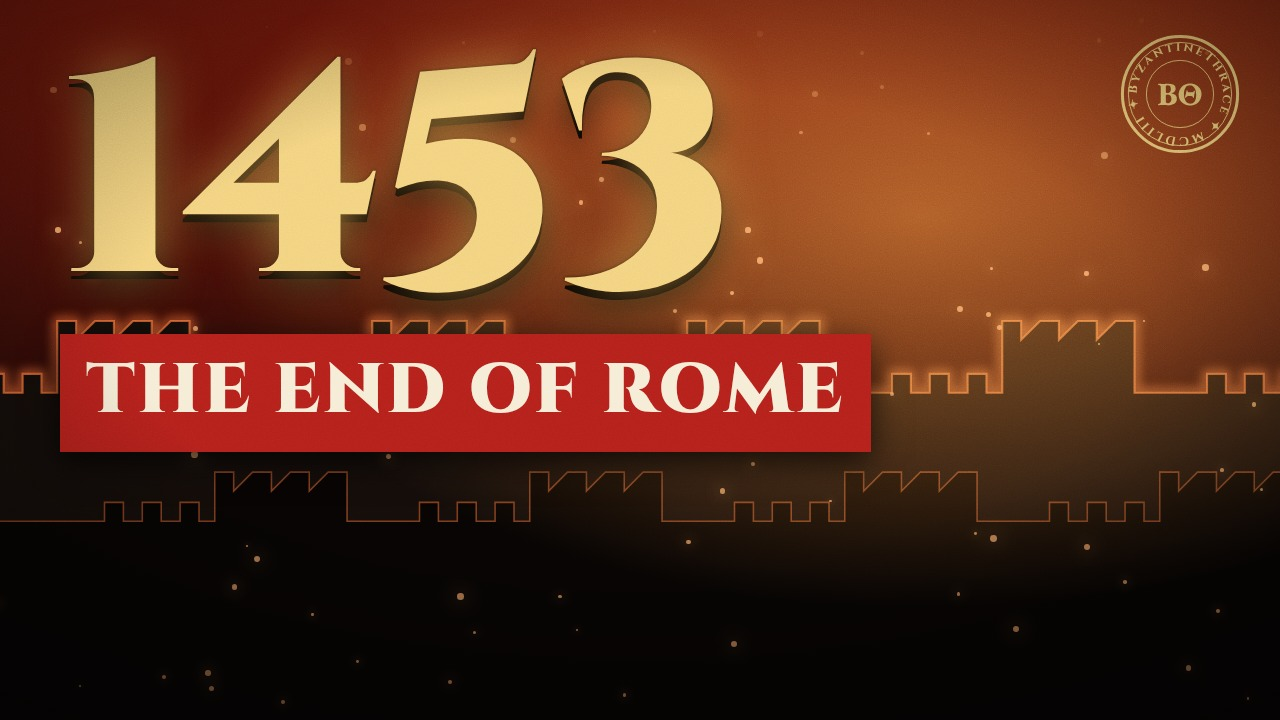
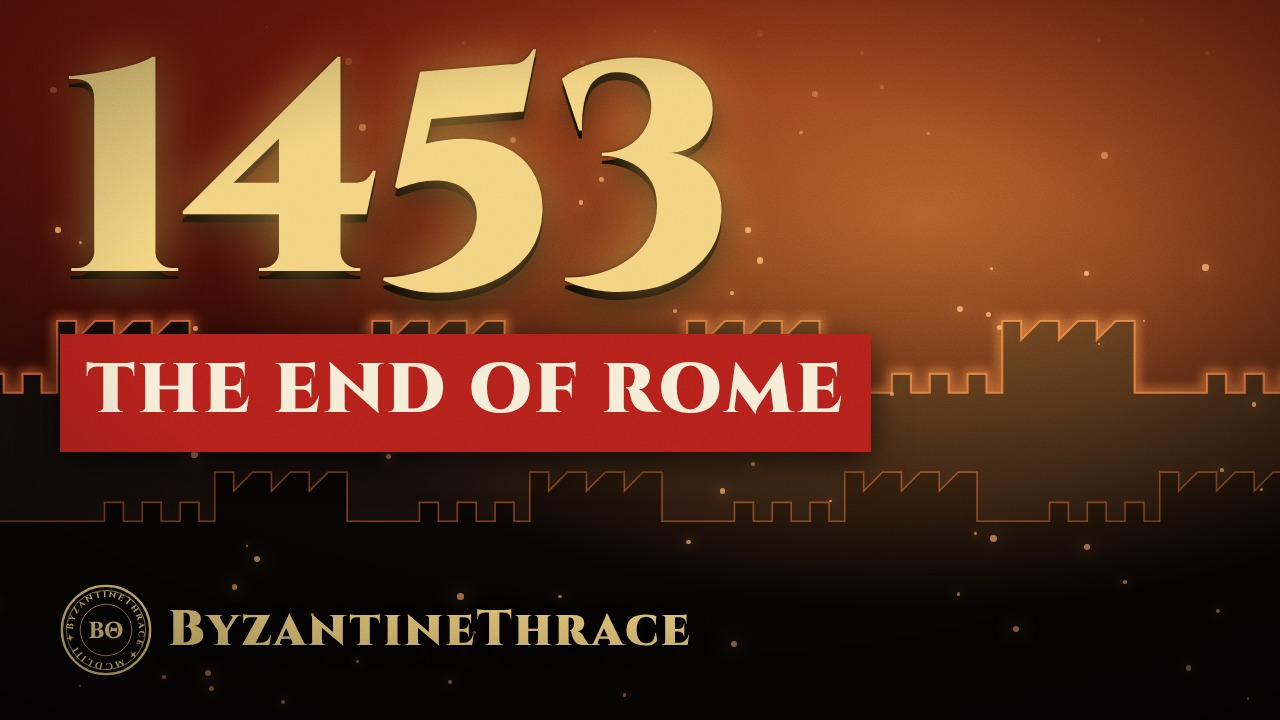
Brand both thumbnails with the ByzantineThrace seal and wordmark
Claude-Session: https://claude.ai/code/session_01Raii1sLHkQ8PtdkteHPdwU

Changed region(s): [[0.0312, 0.7944, 0.5312, 0.9472], [0.875, 0.0306, 0.9688, 0.2139]]

diff --git a/byzantine-thrace/video/src/trailer/Thumbnail.tsx b/byzantine-thrace/video/src/trailer/Thumbnail.tsx
@@ -1,7 +1,7 @@
 import React from 'react';
 import {AbsoluteFill} from 'remotion';
 import {C, F} from '../brand';
-import {Seal} from '../components/Brand';
+import {Seal, Wordmark} from '../components/Brand';
 import {Grain, Vignette} from '../components/Texture';
 import {Embers, WallSilhouette} from '../components/Walls';
 import {MapScene} from '../scenes/MapScene';
@@ -23,6 +23,14 @@ const Big: React.FC<{children: React.ReactNode; size: number; color: string; glo
   </div>
 );
 
+// Seal + wordmark, the channel's signature on every thumbnail.
+const Lockup: React.FC<{size?: number}> = ({size = 1}) => (
+  <div style={{display: 'flex', alignItems: 'center', gap: 16 * size}}>
+    <Seal size={92 * size} color={C.goldBright} />
+    <Wordmark size={50 * size} spacing={0.05} style={{textShadow: '0 3px 0 #000, 0 6px 18px rgba(0,0,0,0.9)'}} />
+  </div>
+);
+
 // A: burning walls, "1453 / THE END OF ROME"
 export const ThumbFire: React.FC = () => (
   <AbsoluteFill>
@@ -39,8 +47,8 @@ export const ThumbFire: React.FC = () => (
         </div>
       </div>
     </AbsoluteFill>
-    <div style={{position: 'absolute', right: 40, top: 34}}>
-      <Seal size={120} color={C.goldBright} />
+    <div style={{position: 'absolute', left: 60, bottom: 44}}>
+      <Lockup />
     </div>
     <Vignette amount={0.5} />
     <Grain />
@@ -67,6 +75,9 @@ export const ThumbMap: React.FC = () => (
       </Big>
       <div style={{fontFamily: F.display, fontWeight: 900, fontSize: 92, color: '#e0332b', textShadow: '0 6px 0 #000, 0 12px 26px #000'}}>53 DAYS</div>
     </AbsoluteFill>
+    <div style={{position: 'absolute', right: 60, top: 40}}>
+      <Lockup size={0.9} />
+    </div>
     <Vignette amount={0.45} />
   </AbsoluteFill>
 );
